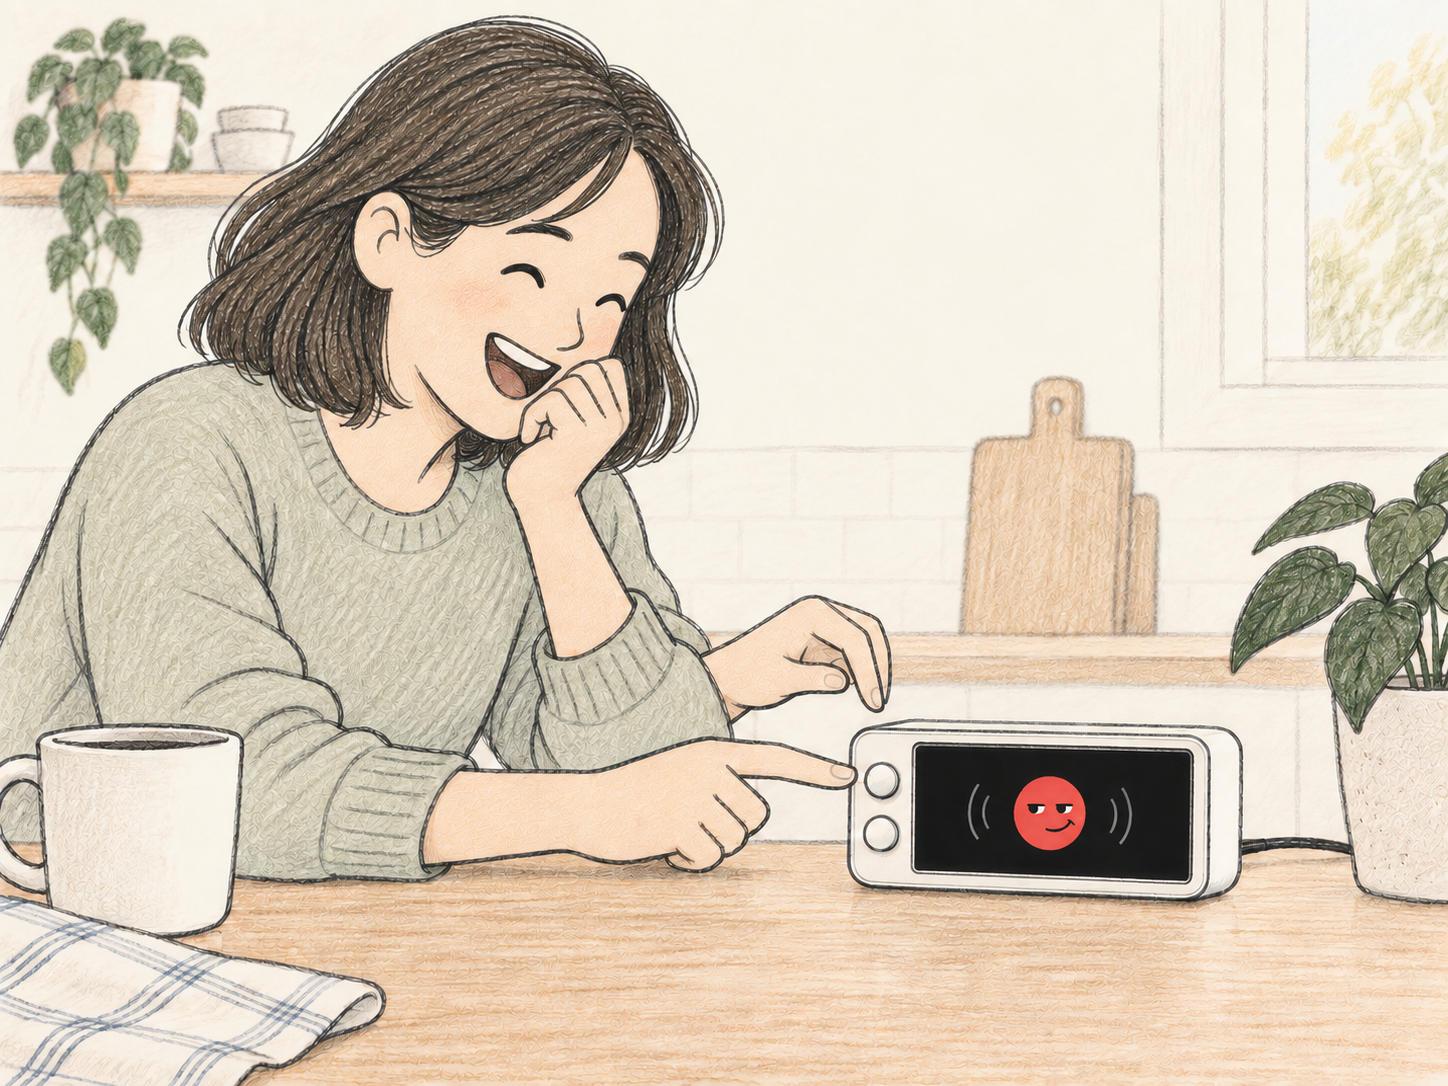
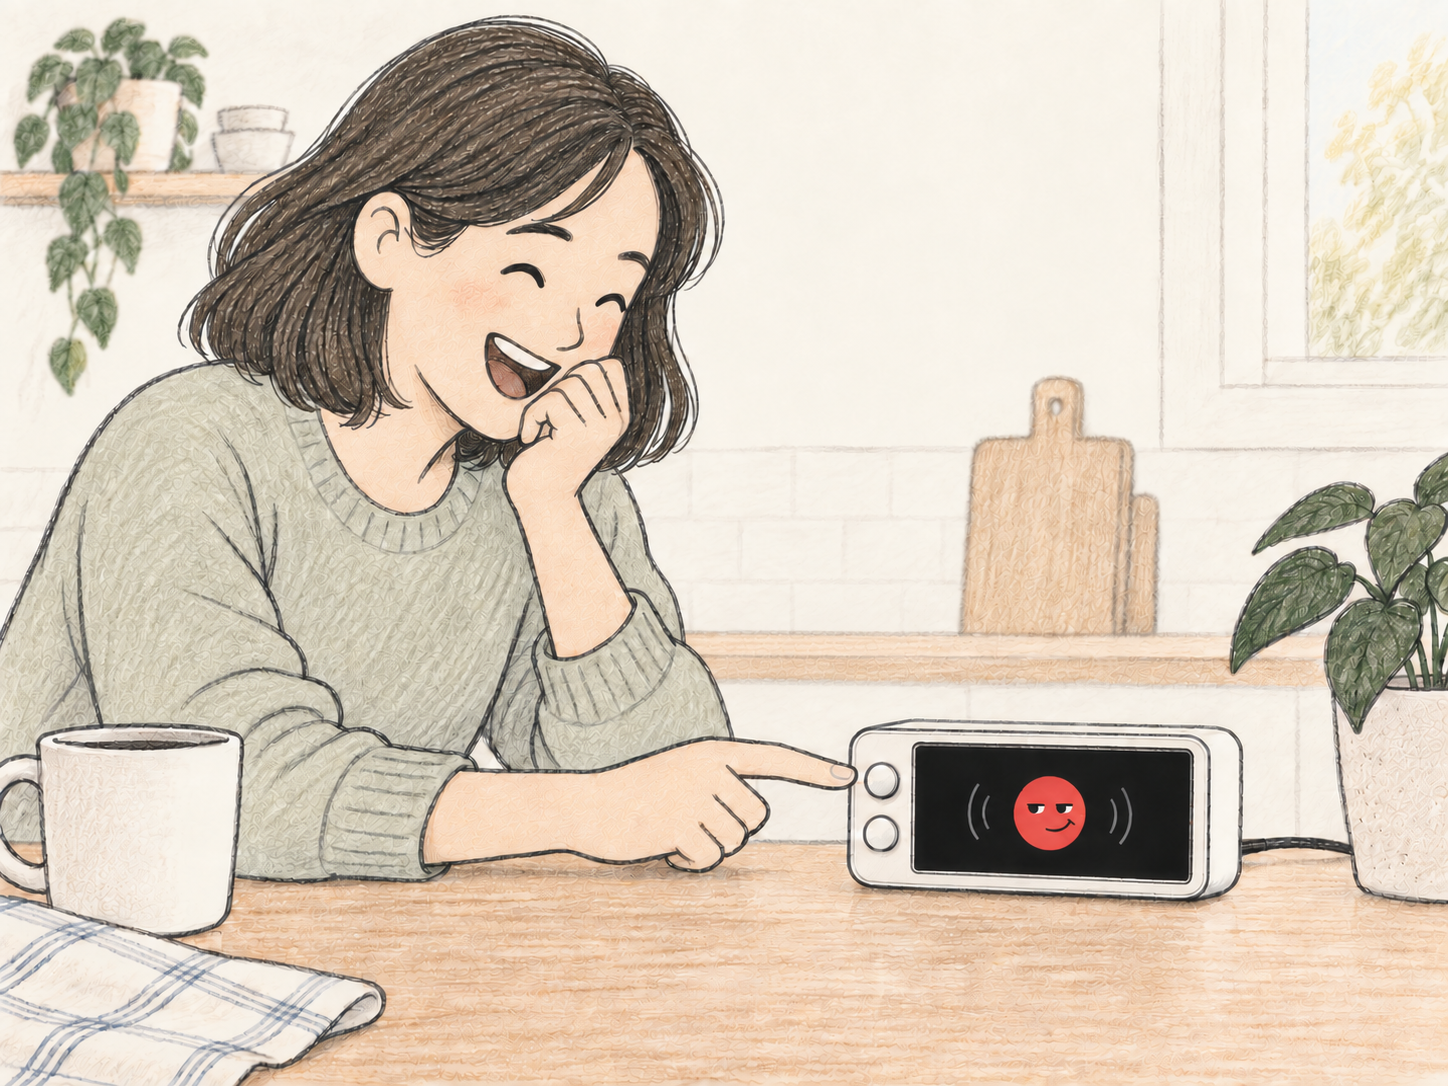
Fix extra hand in Lab 3 storyboard

diff --git a/Lab 3/assets/storyboard-roast-coach/prompts.md b/Lab 3/assets/storyboard-roast-coach/prompts.md
@@ -38,6 +38,10 @@ Edit target: the first generated panel 05. Final edit prompt:
 
 > Panel 6. Same woman in kitchen laughs at the absurd sharp comeback from the voice coach, shoulders loosened, one hand pointing toward the device. The SAME screen has one red circular face with a sly sideways smirk, less angry than before, and small audio rhythm lines, suggesting a comic line just spoken. Her other hand approaches the TOP button to end the session, but is not yet touching it. No physical food, no text.
 
-Edit target: the first generated panel 06. Final edit prompt:
+Edit target: the first generated panel 06. First edit prompt:
 
 > Use case: precise-object-edit. This image is the EDIT TARGET, not just a style reference. Remove ONLY the entire thought bubble containing ice cream and its outline and nearby radiating marks. Restore the area as matching warm ivory kitchen wall. Keep laughing woman, her hands pressing the top button, device with two buttons, black screen and one red smirking circular face, kitchen setting, style, composition and dimensions unchanged. Do not add new text, labels, symbols, food, or bubbles.
+
+The first edit left a third hand above the device. The accepted frame was corrected with a second edit using the first edited image as its target:
+
+> Use case: precise-object-edit. The referenced image is the EDIT TARGET. Fix the human anatomy in this single storyboard frame. Remove ONLY the extra third hand and its disconnected hovering forearm above the device (the hand pointing downward from the upper middle of the image). Fill the removed area with the matching empty warm ivory kitchen wall and counter, preserving pencil texture. The woman must have exactly two arms and two hands: one hand resting at her chin while she laughs, and the other attached to the forearm across the table with its index finger pressing the TOP round button. Preserve her face, hair, sage sweater, device with exactly two vertically stacked buttons and one red smirking circular face, table, plant, all other objects, framing, colors, and style. Do not add any hands, fingers, arms, food bubbles, text, labels, or new elements.
